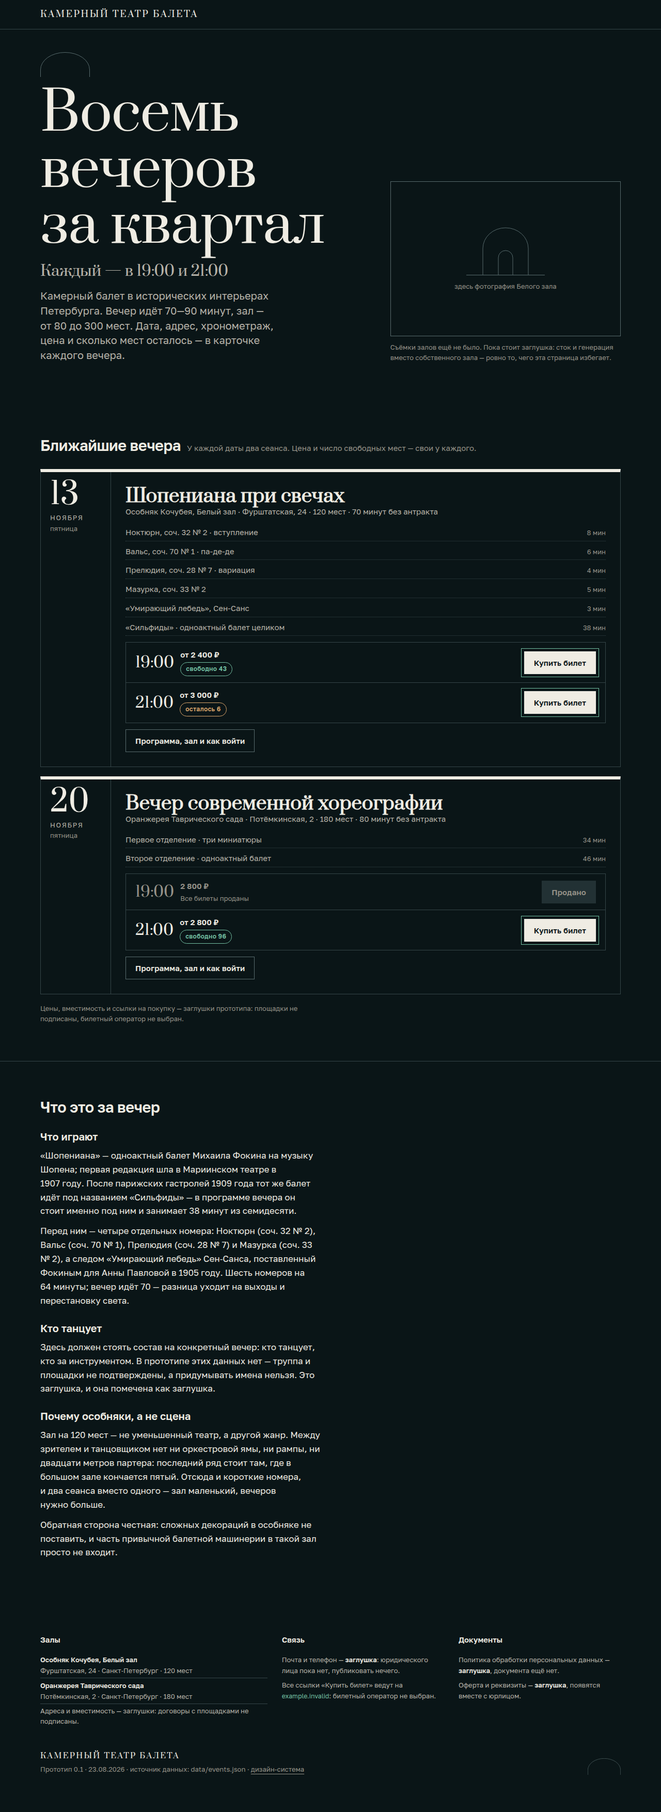
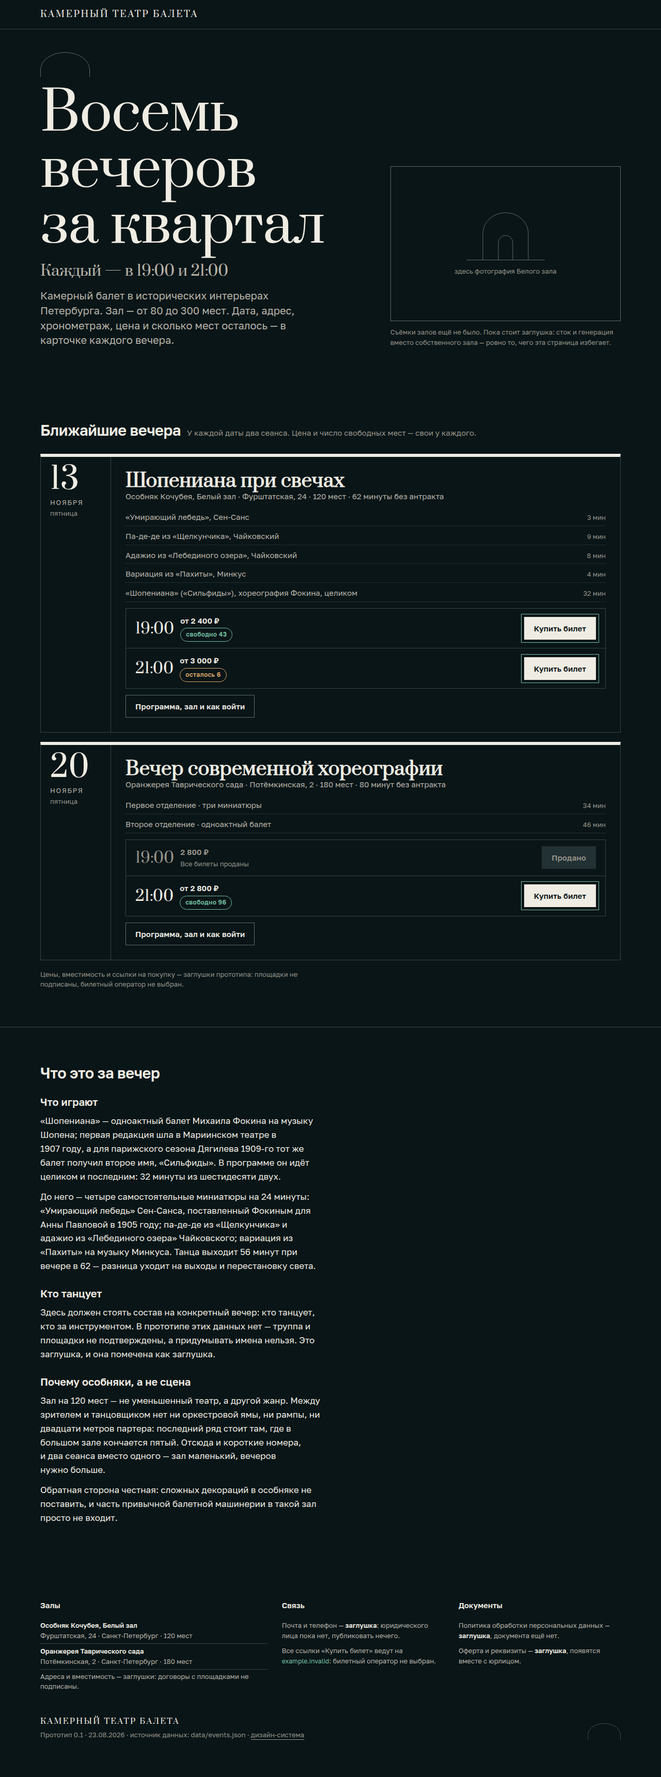
Данные 0.3: программа «Шопенианы» без двойного счёта
events.json заменён на версию 0.3 побайтово. CSS не тронут — в 0.3
он не менялся, и в сборке всё сошлось ещё на 0.2.

Встроенная в app.js копия events пересобрана из нового файла
машинально, поле в поле; совпадение проверяется сравнением
JSON.stringify обеих. Абзац «Что играют» переписан под новую
программу: «Шопениана» идёт целиком и последней, 32 минуты из
шестидесяти двух, до неё — четыре самостоятельные миниатюры на 24.

Лид первого экрана обещал «вечер идёт 70—90 минут» — формулировка
из раздела 1 ТЗ, которая до 0.3 сходилась с данными. Теперь вечер
идёт 62 минуты, и лид противоречил бы карточке прямо под собой.
Диапазон убран: хронометраж каждого вечера стоит в его карточке.
Расхождение ТЗ и данных вынесено в отчёт — правится либо диапазон
в ТЗ, либо durationMin у «Шопенианы».

Проверки на новых данных: сумма номеров 56 при вечере 62 (разница 6)
и 80 при 80 (разница 0) — проверка_1 проходит; ни один номер не
входит в другой — проверка_3 проходит; день недели по-прежнему
считается из date через Intl, обе даты пятницы.

Скриншоты пересняты, все 18, после загрузки шрифтов. Контрасты,
отсутствие горизонтальной прокрутки, обход клавиатурой и обе темы
перепроверены — без изменений.

Claude-Session: https://claude.ai/code/session_01HDQChKF2ZJKvdSj7Hzrp7U

diff --git a/tickets/index.html b/tickets/index.html
@@ -32,7 +32,7 @@
         <svg class="arc" viewBox="0 0 96 48" aria-hidden="true" focusable="false"><path d="M0.5 48 L0.5 34 A47.5 33.5 0 0 1 95.5 34 L95.5 48" fill="none" stroke="currentColor" stroke-width="1"/></svg>
         <h1 class="afisha hero__title">Восемь вечеров за квартал</h1>
         <div class="afisha hero__sub tab">Каждый&nbsp;— в 19:00 и&nbsp;21:00</div>
-        <p class="lede">Камерный балет в исторических интерьерах Петербурга. Вечер идёт 70—90&nbsp;минут, зал — от&nbsp;80 до&nbsp;300&nbsp;мест. Дата, адрес, хронометраж, цена и сколько мест осталось — в карточке каждого вечера.</p>
+        <p class="lede">Камерный балет в исторических интерьерах Петербурга. Зал&nbsp;— от&nbsp;80 до&nbsp;300&nbsp;мест. Дата, адрес, хронометраж, цена и сколько мест осталось — в карточке каждого вечера.</p>
       </div>
 
       <div class="hero__aside">
@@ -79,8 +79,8 @@
       <div class="prose column">
         <div class="prose__part">
           <h3>Что играют</h3>
-          <p>«Шопениана» — одноактный балет Михаила Фокина на музыку Шопена; первая редакция шла в Мариинском театре в 1907&nbsp;году. После парижских гастролей 1909&nbsp;года тот же балет идёт под названием «Сильфиды» — в программе вечера он стоит именно под ним и занимает 38&nbsp;минут из семидесяти.</p>
-          <p>Перед ним — четыре отдельных номера: Ноктюрн (соч.&nbsp;32 №&nbsp;2), Вальс (соч.&nbsp;70 №&nbsp;1), Прелюдия (соч.&nbsp;28 №&nbsp;7) и Мазурка (соч.&nbsp;33 №&nbsp;2), а следом «Умирающий лебедь» Сен‑Санса, поставленный Фокиным для Анны Павловой в 1905&nbsp;году. Шесть номеров на 64&nbsp;минуты; вечер идёт 70 — разница уходит на выходы и перестановку света.</p>
+          <p>«Шопениана» — одноактный балет Михаила Фокина на музыку Шопена; первая редакция шла в Мариинском театре в 1907&nbsp;году, а для парижского сезона Дягилева 1909-го тот же балет получил второе имя, «Сильфиды». В программе он идёт целиком и последним: 32&nbsp;минуты из шестидесяти двух.</p>
+          <p>До него — четыре самостоятельные миниатюры на 24&nbsp;минуты: «Умирающий лебедь» Сен‑Санса, поставленный Фокиным для Анны Павловой в 1905&nbsp;году; па-де-де из «Щелкунчика» и адажио из «Лебединого озера» Чайковского; вариация из «Пахиты» на музыку Минкуса. Танца выходит 56&nbsp;минут при вечере в 62 — разница уходит на выходы и перестановку света.</p>
         </div>
 
         <div class="prose__part">

diff --git a/tickets/js/app.js b/tickets/js/app.js
@@ -27,32 +27,28 @@
         "capacity": 120,
         "entrance": "Двор проходной, вход в правое крыло, второй этаж"
       },
-      "durationMin": 70,
+      "durationMin": 62,
       "interval": false,
       "programme": [
-        {
-          "title": "Ноктюрн, соч. 32 № 2 · вступление",
-          "durationMin": 8
-        },
-        {
-          "title": "Вальс, соч. 70 № 1 · па-де-де",
-          "durationMin": 6
-        },
-        {
-          "title": "Прелюдия, соч. 28 № 7 · вариация",
-          "durationMin": 4
-        },
-        {
-          "title": "Мазурка, соч. 33 № 2",
-          "durationMin": 5
-        },
         {
           "title": "«Умирающий лебедь», Сен-Санс",
           "durationMin": 3
         },
         {
-          "title": "«Сильфиды» · одноактный балет целиком",
-          "durationMin": 38
+          "title": "Па-де-де из «Щелкунчика», Чайковский",
+          "durationMin": 9
+        },
+        {
+          "title": "Адажио из «Лебединого озера», Чайковский",
+          "durationMin": 8
+        },
+        {
+          "title": "Вариация из «Пахиты», Минкус",
+          "durationMin": 4
+        },
+        {
+          "title": "«Шопениана» («Сильфиды»), хореография Фокина, целиком",
+          "durationMin": 32
         }
       ],
       "seatings": [

diff --git a/tickets/ОТЧЁТ.md b/tickets/ОТЧЁТ.md
@@ -2,14 +2,14 @@
 
 **Проект:** Камерный театр балета — лендинг с продажей билетов
 **Дата:** 23.08.2026 · **Итерация:** прототип для решения «заливаем в production или нет»
-**Пакет:** дизайн-система 0.2, ТЗ 0.2
+**Пакет:** дизайн-система 0.3, ТЗ 0.2 (в 0.3 ТЗ и css не менялись — только `events.json`)
 **Что собрано:** три статических экрана на HTML, CSS и ванильном JS. Ни сборщика, ни npm, ни фреймворка.
 
 Папка открывается двойным щелчком по `index.html` — без сервера. Ничего не задеплоено.
 
 ---
 
-## 0 · Что изменилось с версией пакета 0.2
+## 0 · Что изменилось с версиями пакета 0.2 и 0.3
 
 Все три конфликта и обе ошибки в данных, вынесенные в отчёт по первой сборке, закрыты на стороне пакета. Из сборки убраны все обходные пути:
 
@@ -19,14 +19,23 @@
 | тень `.btn-sticky` оставалась литералом `rgb(0 0 0 / 0.45)` — единственное попадание грепа | в пакете вынесена в `--shadow-sticky`, `components.css` берёт `var(--shadow-sticky)` |
 | греп на литеральные цвета требовал исключений, которых в ТЗ не было | ТЗ 0.2 зафиксировал два исключения: `--shadow-sticky` и изолированный `.slop` с палитрой в `--slop-*` |
 | даты 14 и 21 ноября 2026 — субботы, хотя в прототипе подписаны «пятница» | в данных 13 и 20 ноября, настоящие пятницы; `Intl` подтверждает |
-| сумма номеров «Шопенианы» 28 минут при заявленных 70 | шесть номеров на 64 минуты, разница 6 минут — в пределах правила `_проверка_1` |
+| сумма номеров «Шопенианы» 28 минут при заявленных 70 | в 0.2 — шесть номеров на 64 минуты; в 0.3 программа пересобрана ещё раз, см. ниже |
 
-Перенесены целиком и побайтово `tokens.css`, `components.css` и `events.json` версии 0.2. `base.css` в 0.2 не менялся. Ничего другого в сборке не трогал: разметка трёх экранов, раскладка и логика остались от первой итерации.
+### 0.3 — двойной счёт в программе «Шопенианы»
 
-Два места пришлось подтянуть за данными, иначе страница противоречила бы сама себе:
+В версии 0.2 первыми четырьмя номерами шли Ноктюрн, Вальс, Прелюдия и Мазурка, а пятым — «Сильфиды» целиком. Это части того же балета и он же целиком в одном списке: 23 минуты считались дважды. Пакет 0.3 пересобрал программу — четыре самостоятельные миниатюры и «Шопениана» одной строкой, — и завёл `_проверка_3`: номер не может входить в другой номер того же вечера.
+
+В 0.3 изменился только `events.json`; `tokens.css`, `components.css`, `base.css` и ТЗ остались от 0.2 и не тронуты.
+
+### Что перенесено
+
+Перенесены целиком и побайтово `tokens.css` и `components.css` версии 0.2 и `events.json` версии 0.3. `base.css` не менялся ни в 0.2, ни в 0.3. Ничего другого в сборке не трогал: разметка трёх экранов, раскладка и логика остались от первой итерации.
+
+Три места пришлось подтянуть за данными, иначе страница противоречила бы сама себе:
 
 - встроенная в `app.js` копия `events` пересобрана из нового `events.json` машинально, поле в поле — совпадение проверяется сравнением `JSON.stringify` обеих;
-- абзац «Что играют» в текстовом блоке афиши описывал прежнюю программу из четырёх номеров. Переписан под новую: шесть номеров, «Сильфиды» целиком на 38 минут, сумма 64 при вечере в 70. Заодно названо то, что раньше висело без объяснения: «Шопениана» и «Сильфиды» — один и тот же балет Фокина, второе имя он получил после парижских гастролей 1909 года.
+- абзац «Что играют» в текстовом блоке афиши переписан под программу 0.3: «Шопениана» идёт целиком и последней, 32 минуты из шестидесяти двух; до неё — четыре самостоятельные миниатюры на 24 минуты. Второе имя балета названо там же, потому что в самих данных оно стоит в скобках: «Шопениана» получила его для парижского сезона Дягилева 1909 года;
+- **лид первого экрана** обещал «вечер идёт 70—90 минут» — это формулировка из раздела 1 ТЗ, и до 0.3 она сходилась с данными. Теперь «Шопениана» идёт 62 минуты, и лид противоречил бы карточке прямо под собой. Диапазон из лида убран: хронометраж каждого вечера и так стоит в его карточке, а число, которое расходится с данными, хуже, чем его отсутствие. **Это расхождение ТЗ и данных — на ваше решение:** либо в разделе 1 ТЗ правится диапазон, либо у «Шопенианы» правится `durationMin`.
 
 Про «хардкод дня недели» отдельно: в этой сборке его не было и нет. День недели с самого начала считается из `date` через `Intl.DateTimeFormat('ru-RU', {weekday: 'long'})` — руками он не вписан ни в одном файле, что проверяется грепом на «пятниц»/«суббот» по всей папке. Правило `_проверка_2` из `events.json` 0.2 выполняется по построению. Обновилась только сама дата: `event.html?id=chopiniana-2026-11-13`.
 
@@ -246,7 +255,7 @@ grep -rnE '#[0-9a-fA-F]{3,8}\b|rgb\(|rgba\(|hsl\(' --include='*.css' --include='
 
 Важная оговорка про среду: у браузера в этой песочнице нет прямого выхода в интернет, и запрос к `fonts.googleapis.com` из него не проходит. Поэтому в момент съёмки та же таблица стилей и те же файлы `woff2` подставлялись с диска — скачанные заранее с Google Fonts по тому же самому адресу, что стоит в `<head>`. Разметка страниц при этом не менялась ни на символ: подмена жила только в скриптe съёмки. В обычном браузере шрифты приезжают с Google Fonts как написано.
 
-Сняты заново на данных 0.2 — даты, программа «Шопенианы» и адрес страницы вечера на снимках уже новые.
+Сняты заново на данных 0.3 — даты, программа «Шопенианы» и хронометраж на снимках уже новые.
 
 Липкая кнопка на скриншотах 390 px видна в конце страницы, в своём статическом положении: снимок полной высоты не показывает `position: sticky` в работе. Что она действительно липнет на мобильном и становится обычной от 720 px — проверено отдельно, значения `position` замерены: `sticky` на 320 и 390, `static` на 768 и 1280.
 
@@ -263,12 +272,13 @@ grep -rnE '#[0-9a-fA-F]{3,8}\b|rgb\(|rgba\(|hsl\(' --include='*.css' --include='
 5. **Юрлицо и реквизиты.** Почта, телефон, политика обработки персональных данных, оферта — заглушки с явной пометкой. Ссылки на несуществующие документы не поставлены.
 6. **Доля мобильного трафика.** Адаптив собран от 320 px, но приоритет композиции не смещён: без данных это была бы догадка.
 
-### Две нестыковки в данных, найденные при первой сборке, — закрыты
+### Нестыковки в данных, найденные при сборке, — закрыты
 
-Обе исправлены в пакете 0.2 и перепроверены на новых данных:
+Исправлены в пакетах 0.2 и 0.3, перепроверены на текущих данных:
 
 - **День недели.** Даты стали 13 и 20 ноября 2026 — обе пятницы. `Intl.DateTimeFormat('ru-RU', {weekday: 'long'})` на них выводит «пятница», и это то, что стоит на карточках и на странице вечера. В данных день недели по-прежнему не хранится, как и требует `_проверка_2`.
-- **Хронометраж.** «Шопениана»: шесть номеров на 64 минуты при заявленных 70, разница 6 минут. «Вечер современной хореографии»: 80 при 80, разница 0. Оба укладываются в `_проверка_1` (сумма не больше длительности и отстаёт от неё не больше чем на 10 минут). Строка «Чистое время номеров» на странице вечера теперь читается как надо.
+- **Хронометраж.** На данных 0.3: «Шопениана» — пять номеров на 56 минут при вечере в 62, разница 6; «Вечер современной хореографии» — 80 при 80, разница 0. Оба укладываются в `_проверка_1` (сумма не больше длительности и отстаёт от неё не больше чем на 10 минут). Строка «Чистое время номеров» на странице вечера читается как надо.
+- **Двойной счёт.** `_проверка_3` на данных 0.3 выполняется: в «Шопениане» пять непересекающихся позиций — четыре миниатюры и балет одной строкой, ни одна не входит в другую.
 
 ## 10 · Самопроверка по разделу 13
 
@@ -289,7 +299,8 @@ grep -rnE '#[0-9a-fA-F]{3,8}\b|rgb\(|rgba\(|hsl\(' --include='*.css' --include='
 ✅ «Продано» не красное: oklch(0.662 0.015 92) = --ink-2
 ✅ день недели вычисляется из даты, руками не вписан нигде — проверено грепом
 ✅ сумма номеров расходится с длительностью вечера на 6 и 0 минут при пороге 10
-✅ 18 скриншотов сняты после загрузки шрифтов, на данных 0.2
+✅ ни один номер не входит в другой номер того же вечера (проверка_3)
+✅ 18 скриншотов сняты после загрузки шрифтов, на данных 0.3
 ✅ ОТЧЁТ.md написан
 ```
 
